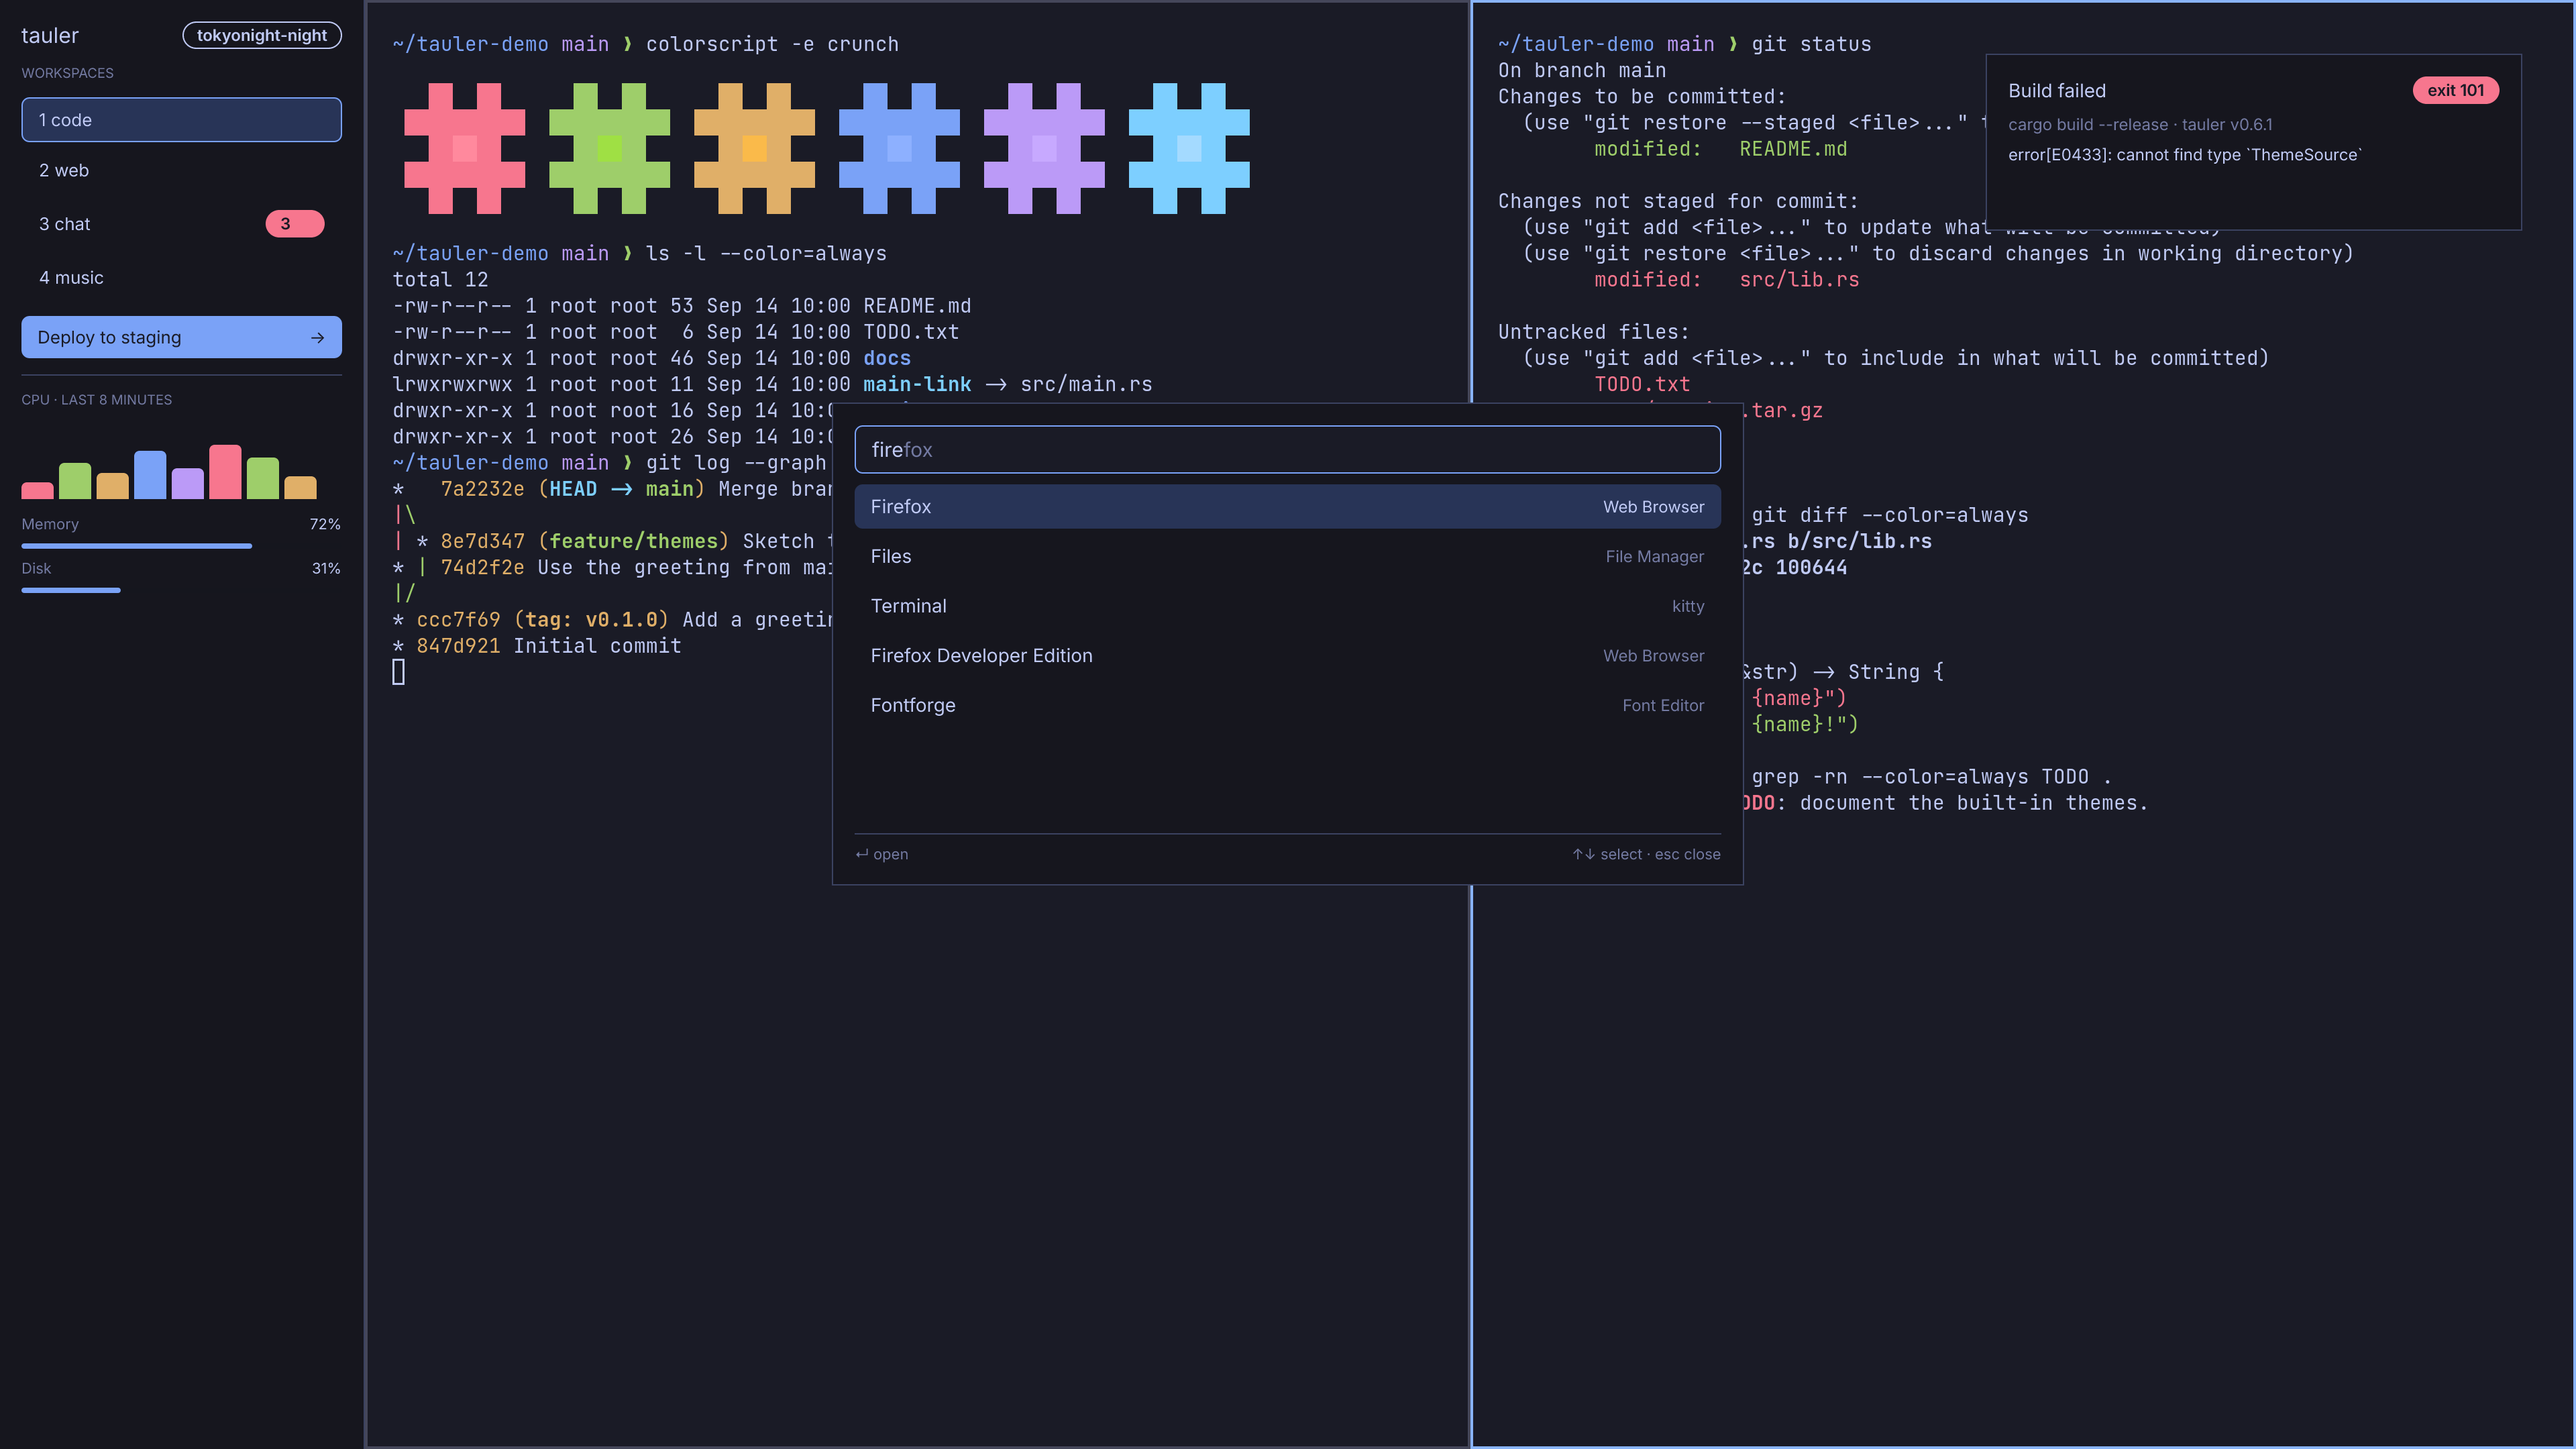
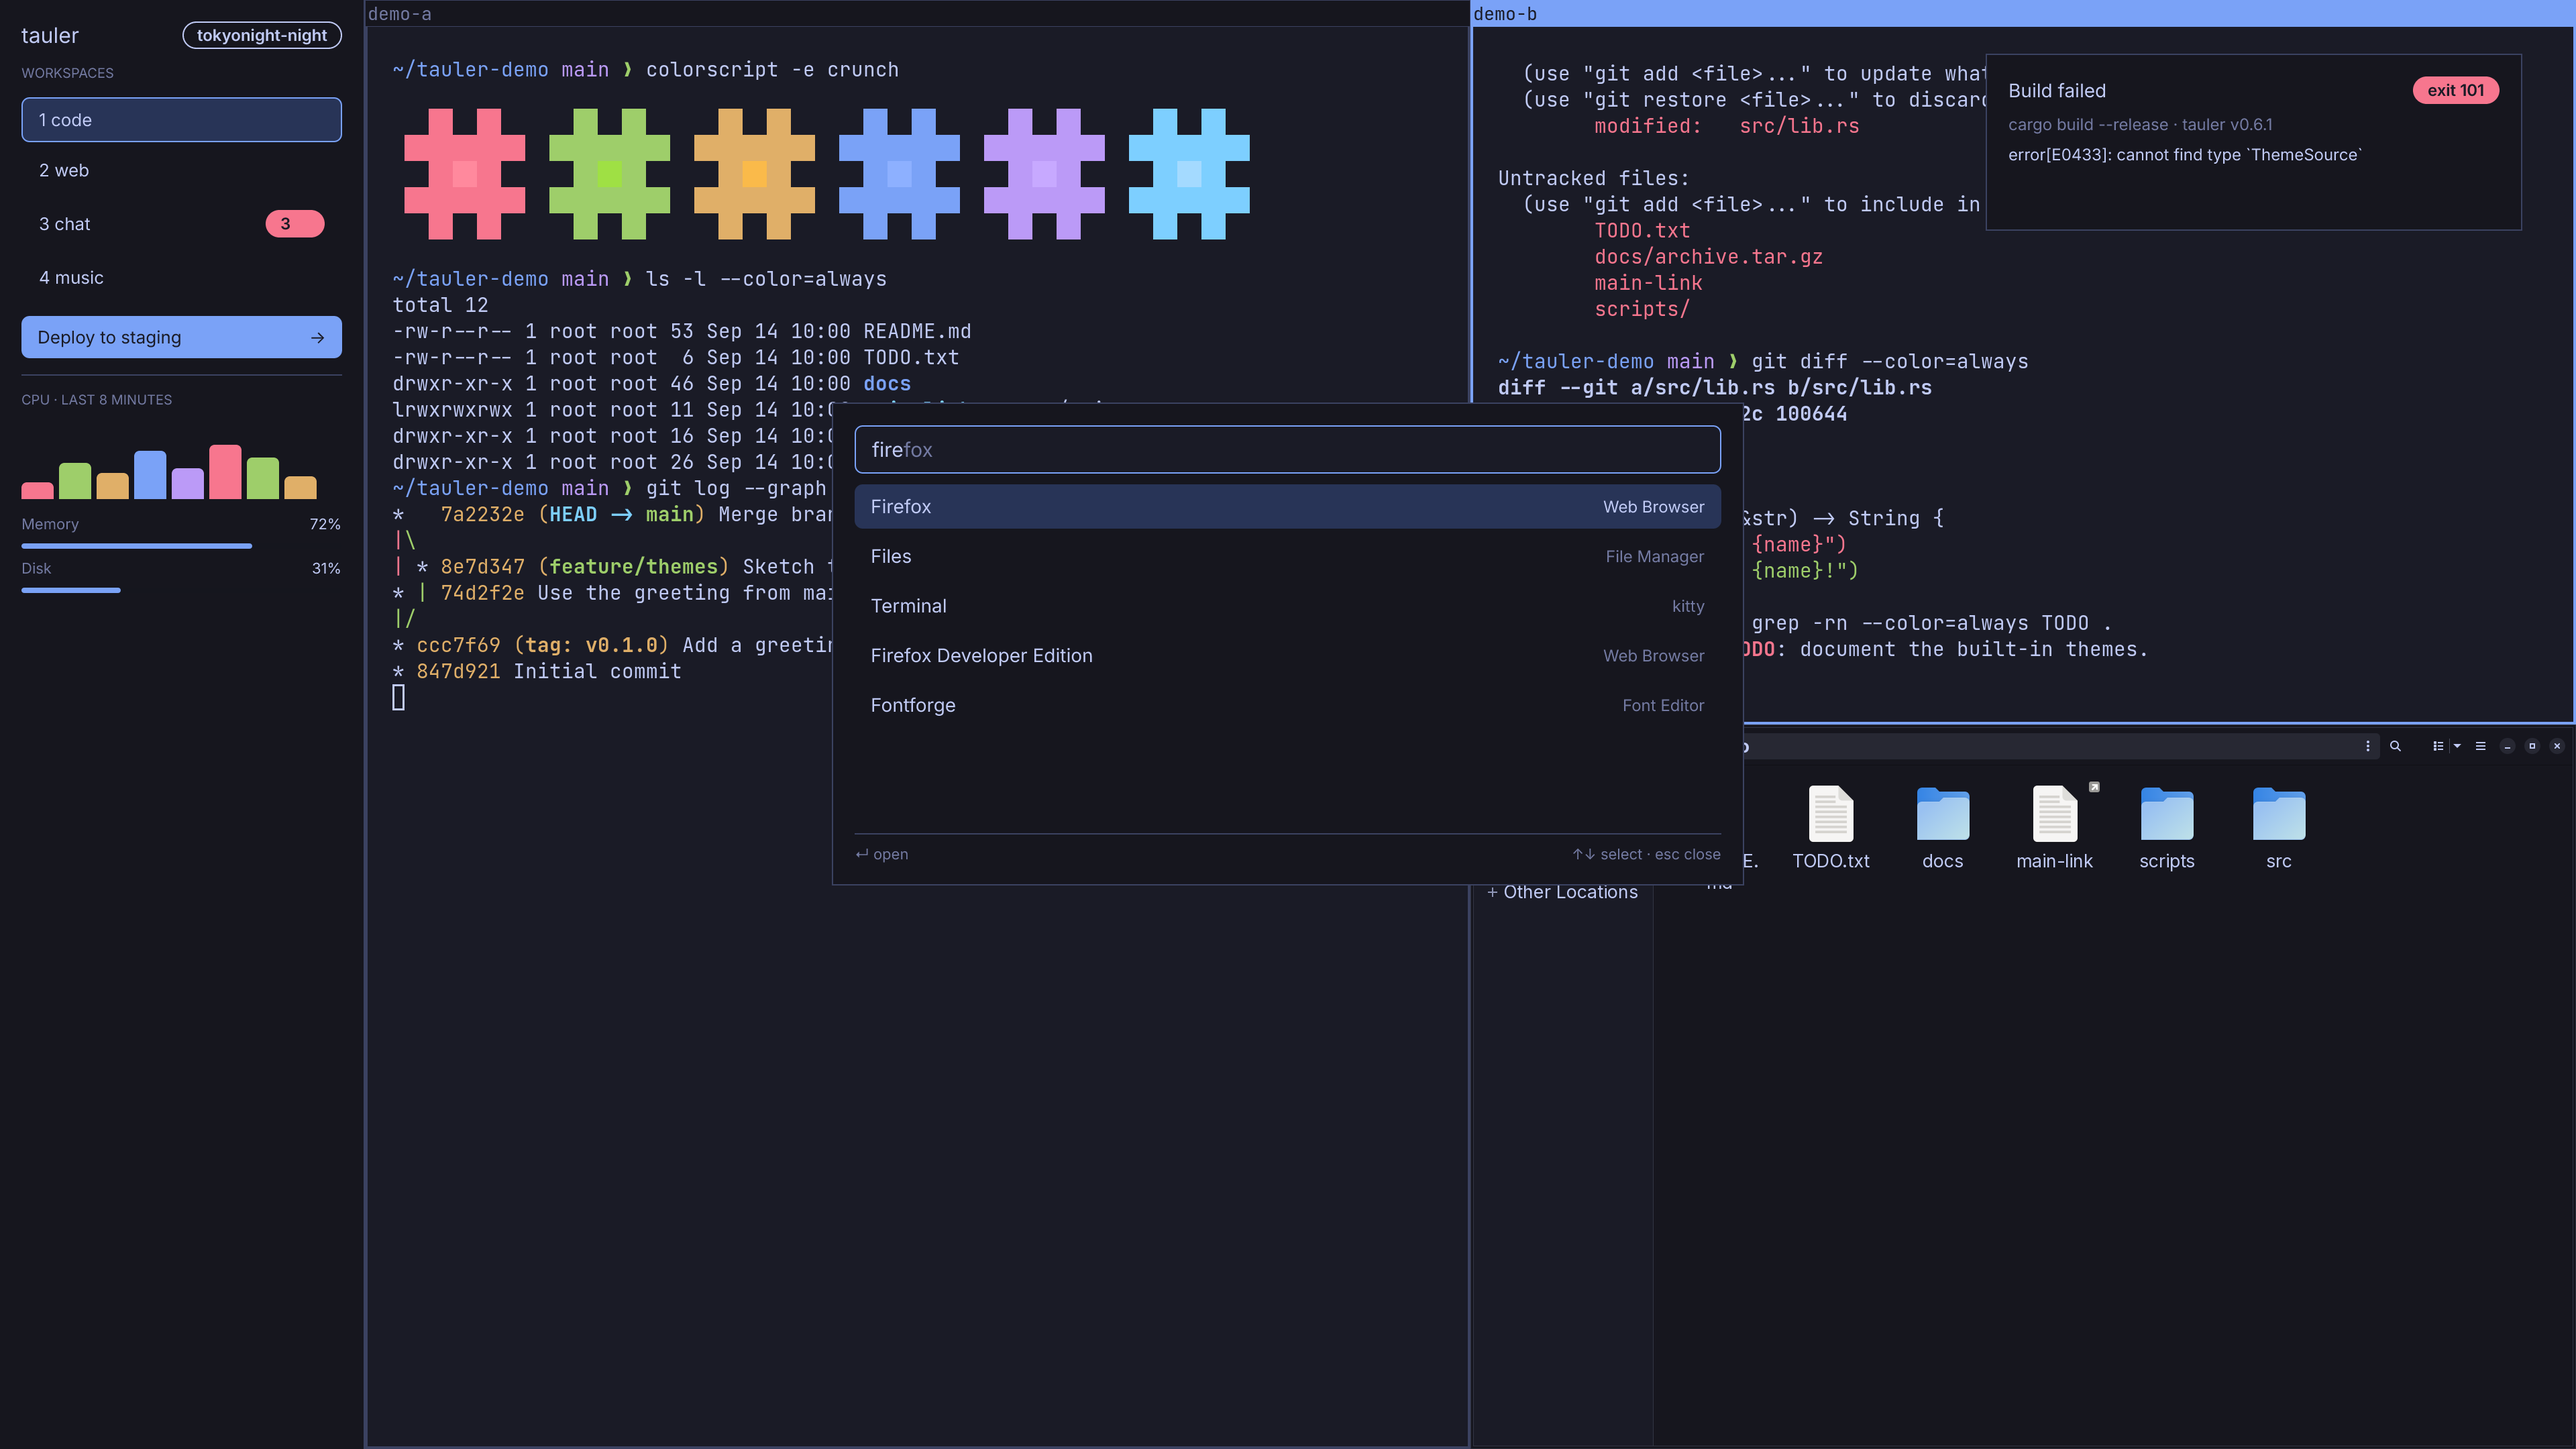
feat: improve themeing demos

diff --git a/tauler-e2e/tests/scenarios.rs b/tauler-e2e/tests/scenarios.rs
@@ -112,8 +112,9 @@ fn workspaces_frames_the_area_beside_the_sidebar() -> Result<()> {
 }
 
 /// A kitty colours file for `theme`: its background, foreground and the 16 `ansi-*`
-/// tokens as `color0`..`color15`. This is the one place a terminal is told what the theme is —
-/// there is no layout-side API for it yet, so the test does it from the Rust `Theme` directly.
+/// tokens as `color0`..`color15`. The terminal starts before the bar does, so it cannot wait for
+/// a Unit to write this from `ctx.theme` the way a real layout would; the test writes it from the
+/// Rust `Theme` directly.
 fn kitty_colors(theme: &tauler_core::theme::Theme) -> String {
     let colors = &theme.colors;
     let get = |key: &str| {
@@ -144,6 +145,145 @@ fn kitty_colors(theme: &tauler_core::theme::Theme) -> String {
     out
 }
 
+/// libadwaita's named colours for `theme`, as the `gtk.css` a GTK4 application reads from
+/// `$XDG_CONFIG_HOME/gtk-4.0/`.
+///
+/// The names are libadwaita's public API; which token fills which is this project's own choice,
+/// following how a UI surface is named: the window and its content are `background` and `card`, the
+/// header bar and sidebar are `sidebar`, dialogs and popovers are `popover`, the accent is `primary`.
+fn gtk_css(theme: &tauler_core::theme::Theme) -> String {
+    let get = |key: &str| theme.colors[key].clone();
+    let veil = "rgba(0, 0, 0, 0.25)".to_string();
+    let pairs: Vec<(&str, String)> = vec![
+        ("window_bg_color", get("background")),
+        ("window_fg_color", get("foreground")),
+        ("view_bg_color", get("card")),
+        ("view_fg_color", get("card-foreground")),
+        ("headerbar_bg_color", get("sidebar")),
+        ("headerbar_fg_color", get("sidebar-foreground")),
+        ("headerbar_border_color", get("border")),
+        ("headerbar_backdrop_color", get("background")),
+        ("headerbar_shade_color", veil.clone()),
+        ("card_bg_color", get("card")),
+        ("card_fg_color", get("card-foreground")),
+        ("card_shade_color", veil.clone()),
+        ("dialog_bg_color", get("popover")),
+        ("dialog_fg_color", get("popover-foreground")),
+        ("popover_bg_color", get("popover")),
+        ("popover_fg_color", get("popover-foreground")),
+        ("popover_shade_color", veil.clone()),
+        ("sidebar_bg_color", get("sidebar")),
+        ("sidebar_fg_color", get("sidebar-foreground")),
+        ("sidebar_backdrop_color", get("sidebar")),
+        ("sidebar_shade_color", veil.clone()),
+        ("accent_bg_color", get("primary")),
+        ("accent_fg_color", get("primary-foreground")),
+        ("accent_color", get("primary")),
+        ("destructive_bg_color", get("destructive")),
+        ("destructive_fg_color", get("destructive-foreground")),
+        ("destructive_color", get("destructive")),
+        ("success_bg_color", get("ansi-green")),
+        ("success_fg_color", get("background")),
+        ("success_color", get("ansi-green")),
+        ("warning_bg_color", get("ansi-yellow")),
+        ("warning_fg_color", get("background")),
+        ("warning_color", get("ansi-yellow")),
+        ("error_bg_color", get("destructive")),
+        ("error_fg_color", get("destructive-foreground")),
+        ("error_color", get("destructive")),
+        ("shade_color", veil),
+        ("scrollbar_outline_color", get("border")),
+    ];
+    pairs
+        .iter()
+        .map(|(name, value)| format!("@define-color {name} {value};\n"))
+        .collect()
+}
+
+/// An i3 colours file for `theme`: the window manager's own borders and title bars, drawn from the
+/// same tokens a UI would use for the matching surface.
+///
+/// The focused window is `primary` with its `primary-foreground` title, an unfocused one `card`
+/// with `muted-foreground`, an urgent one `destructive`. i3 lists a border, a title background, a
+/// title text, an indicator and a child border, in that order.
+fn i3_colors(theme: &tauler_core::theme::Theme) -> String {
+    let get = |key: &str| {
+        theme
+            .colors
+            .get(key)
+            .unwrap_or_else(|| panic!("theme `{}` has no `{key}`", theme.name))
+            .clone()
+    };
+    let class = |name: &str, border: &str, background: &str, text: &str, indicator: &str| {
+        format!(
+            "client.{name} {} {} {} {} {}\n",
+            get(border),
+            get(background),
+            get(text),
+            get(indicator),
+            get(border)
+        )
+    };
+    let mut out = String::new();
+    out.push_str(&class(
+        "focused",
+        "primary",
+        "primary",
+        "primary-foreground",
+        "accent",
+    ));
+    out.push_str(&class(
+        "focused_inactive",
+        "border",
+        "secondary",
+        "secondary-foreground",
+        "border",
+    ));
+    out.push_str(&class(
+        "unfocused",
+        "border",
+        "card",
+        "muted-foreground",
+        "border",
+    ));
+    out.push_str(&class(
+        "urgent",
+        "destructive",
+        "destructive",
+        "destructive-foreground",
+        "destructive",
+    ));
+    out.push_str(&class(
+        "placeholder",
+        "border",
+        "card",
+        "muted-foreground",
+        "border",
+    ));
+    out.push_str(&format!("client.background {}\n", get("background")));
+    out
+}
+
+/// How many pixels of `png` inside `x0..x1`, `y0..y1` are exactly `rgb`.
+fn pixels_of(
+    png: &std::path::Path,
+    x: std::ops::Range<u32>,
+    y: std::ops::Range<u32>,
+    rgb: [u8; 3],
+) -> usize {
+    let img = image::open(png).expect("decode screenshot").to_rgba8();
+    y.flat_map(|y| x.clone().map(move |x| (x, y)))
+        .filter(|&(x, y)| img.get_pixel_checked(x, y).is_some_and(|p| p.0[..3] == rgb))
+        .count()
+}
+
+/// `#rrggbb` as bytes.
+fn rgb_of(theme: &tauler_core::theme::Theme, token: &str) -> [u8; 3] {
+    let hex = &theme.colors[token];
+    let byte = |i: usize| u8::from_str_radix(&hex[1 + 2 * i..3 + 2 * i], 16).expect("hex colour");
+    [byte(0), byte(1), byte(2)]
+}
+
 /// What a built-in theme is expected to draw, written by hand from its theme file.
 struct Palette {
     background: [u8; 3],
@@ -153,8 +293,8 @@ struct Palette {
 
 /// A built-in theme, selected by `theme.name` alone — no theme file in the fixture.
 ///
-/// The desktop is a left rail, two free-floating plates (a notification and a launcher) and two
-/// kitty terminals, each drawn from the tokens a UI would use for that surface. Pixels where
+/// The desktop is a left rail, two free-floating plates (a notification and a launcher), two
+/// kitty terminals and a GTK4 file manager (Nautilus), each drawn from the tokens a UI would use for that surface. Pixels where
 /// nothing else is drawn are therefore exact tokens: the rail's bottom edge is the theme's
 /// `sidebar`, the launcher's bottom-right padding its `popover`, and an empty stretch of a
 /// terminal its `background` — which kitty only has because the test wrote it from this theme.
@@ -181,6 +321,20 @@ fn builtin_theme_scenario(
         tauler_e2e::scenario_out_dir(scenario)?.join("kitty-colors.conf"),
         kitty_colors(&theme),
     )?;
+    std::fs::write(
+        tauler_e2e::scenario_out_dir(scenario)?.join("i3-colors.conf"),
+        i3_colors(&theme),
+    )?;
+    let gtk = tauler_e2e::scenario_out_dir(scenario)?.join("gtk");
+    std::fs::create_dir_all(gtk.join("gtk-4.0"))?;
+    std::fs::write(gtk.join("gtk-4.0/gtk.css"), gtk_css(&theme))?;
+    std::fs::write(
+        gtk.join("color-scheme"),
+        match theme.mode {
+            tauler_core::theme::ThemeMode::Dark => "prefer-dark",
+            tauler_core::theme::ThemeMode::Light => "prefer-light",
+        },
+    )?;
 
     let k = K as i32;
     let (_desktop, screenshot) = run_on(
@@ -199,7 +353,7 @@ fn builtin_theme_scenario(
                 rect(1480 * k, 40 * k, 400 * K, 132 * K),
                 rect(620 * k, 300 * k, 680 * K, 360 * K),
             ],
-            clients: 2,
+            clients: 3,
         },
     )?;
     let [r, g, b, _] = pixel_at(&screenshot, 136 * K, 1070 * K)?;
@@ -214,6 +368,24 @@ fn builtin_theme_scenario(
         [r, g, b],
         expected.popover,
         "the launcher's own pixel is not the theme's `popover`"
+    );
+    // i3's own chrome: the two terminals' title bars sit along the top of the area right of the
+    // rail, clear of the notification. One window is focused (title bar in `primary`), the other
+    // not (`card`) — both only because the test wrote i3's colours from this theme.
+    let bars = (272 * K)..(1400 * K);
+    let top = 0..(40 * K);
+    assert!(
+        pixels_of(
+            &screenshot,
+            bars.clone(),
+            top.clone(),
+            rgb_of(&theme, "primary")
+        ) > 500,
+        "no title bar in the theme's `primary` — i3 did not get the colours for the focused window"
+    );
+    assert!(
+        pixels_of(&screenshot, bars, top, rgb_of(&theme, "card")) > 500,
+        "no title bar in the theme's `card` — i3 did not get the colours for an unfocused window"
     );
     // An empty stretch of the left terminal, below its output and clear of the launcher.
     let [r, g, b, _] = pixel_at(&screenshot, 500 * K, 1000 * K)?;
